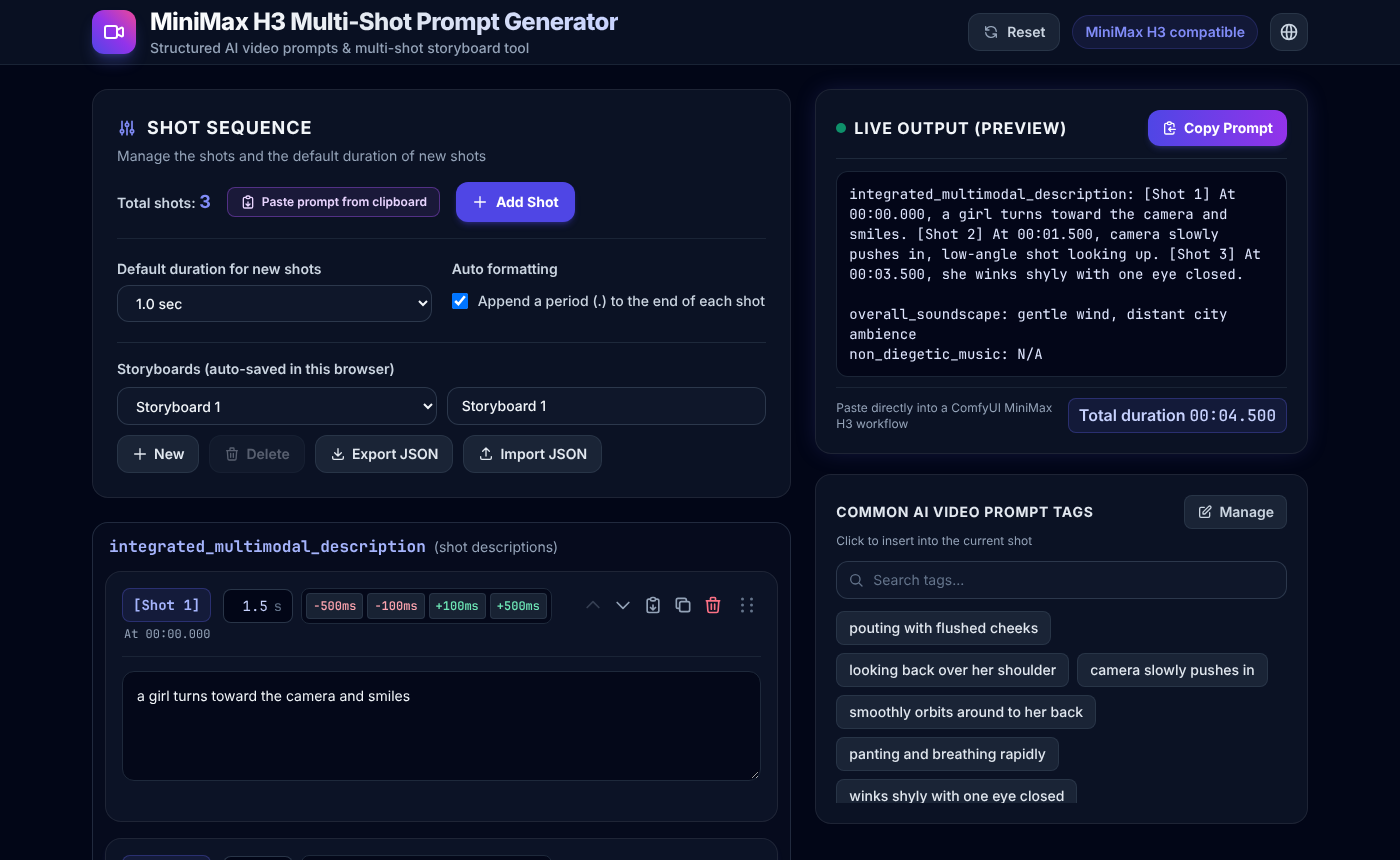
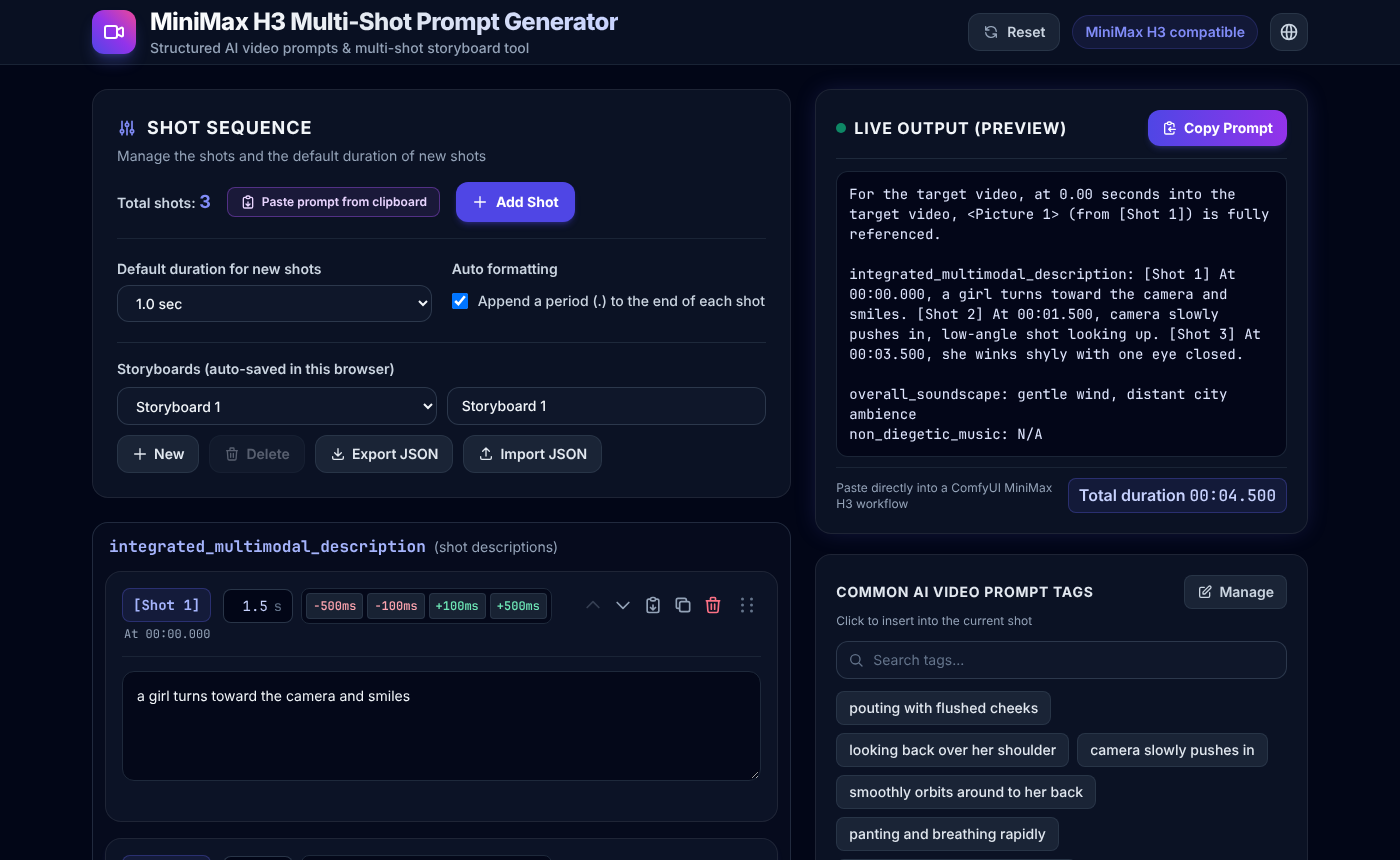
Prepend the official I2VA keyframe alignment sentence to the prompt
The H3 guide requires this sentence as the first line of an image-to-video
prompt, followed by one blank line. parsePrompt() already ignores it, so
pasting an old or new prompt both work.

Claude-Session: https://claude.ai/code/session_01P8mLr7zYKmqV8YWnxqGtAa

diff --git a/tests/unit/core.test.js b/tests/unit/core.test.js
@@ -34,8 +34,15 @@ test('buildPrompt: format, spacing, auto period, N/A defaults; At = sum of earli
     nonDiegeticMusic: ' soft piano ',
   });
   assert.equal(out,
+    core.KEYFRAME_ALIGNMENT + '\n\n' +
     'integrated_multimodal_description: [Shot 1] At 00:00.000, a girl smiles. [Shot 2] At 00:01.500, camera pushes in. [Shot 3] At 00:03.500, she waves.' +
     '\n\noverall_soundscape: N/A\nnon_diegetic_music: soft piano');
+});
+test('buildPrompt: starts with the I2VA keyframe alignment line and one blank line', () => {
+  const out = core.buildPrompt({ shots: [shot('1.0', 'x')], autoPeriod: true });
+  assert.equal(core.KEYFRAME_ALIGNMENT,
+    'For the target video, at 0.00 seconds into the target video, <Picture 1> (from [Shot 1]) is fully referenced.');
+  assert.ok(out.startsWith(core.KEYFRAME_ALIGNMENT + '\n\nintegrated_multimodal_description: '));
 });
 test('buildPrompt: autoPeriod off leaves text untouched', () => {
   const out = core.buildPrompt({ shots: [shot('1.0', 'no period')], autoPeriod: false });
@@ -46,7 +53,7 @@ test('buildPrompt: empty shots are skipped, renumbered and not counted in the ti
     shots: [shot('1.0', 'one'), shot('5.0', '   '), shot('1.0', 'three')],
     autoPeriod: true,
   });
-  assert.match(out, /^integrated_multimodal_description: \[Shot 1\] At 00:00\.000, one\. \[Shot 2\] At 00:01\.000, three\.\n/);
+  assert.match(out, /\nintegrated_multimodal_description: \[Shot 1\] At 00:00\.000, one\. \[Shot 2\] At 00:01\.000, three\.\n/);
 });
 test('analyzeShots: numbering and start times skip empty shots', () => {
   const info = core.analyzeShots([shot('1.0', 'a'), shot('3.0', ''), shot('0.5', 'c'), shot('2.0', 'd')]);
@@ -316,6 +323,14 @@ test('parsePrompt: round-trips buildPrompt output', () => {
   assert.deepEqual(r.shots, input.shots.map(({ duration, description }) => ({ duration, description })));
   assert.equal(r.overallSoundscape, 'rain on a window');
   assert.equal(r.nonDiegeticMusic, 'soft piano');
+});
+
+test('parsePrompt: ignores the keyframe alignment line, with or without field names', () => {
+  const line = core.KEYFRAME_ALIGNMENT;
+  const bare = core.parsePrompt(line + '\n\n[Shot 1] At 00:00.000, one. [Shot 2] At 00:01.000, two.', 1);
+  assert.deepEqual(bare.shots.map(s => s.description), ['one.', 'two.']);
+  const full = core.parsePrompt(line + '\n\nintegrated_multimodal_description: [Shot 1] At 00:00.000, one.', 1);
+  assert.deepEqual(full.shots.map(s => s.description), ['one.']);
 });
 
 test('parsePrompt: cleans spaces, line breaks, CRLF and invisible characters', () => {

diff --git a/js/core.js b/js/core.js
@@ -170,12 +170,16 @@ function totalDuration(shots) {
   ), 0);
 }
 
-// Build the MiniMax H3 prompt. See docs/FORMAT.md — do not change the
+// Build the MiniMax H3 prompt (I2VA). See docs/FORMAT.md — do not change the
 // format without asking the user.
+//   <KEYFRAME_ALIGNMENT line>
+//
 //   integrated_multimodal_description: [Shot 1] At 00:00.000, text. [Shot 2] ...
 //
 //   overall_soundscape: ...
 //   non_diegetic_music: ...
+const KEYFRAME_ALIGNMENT = 'For the target video, at 0.00 seconds into the target video, <Picture 1> (from [Shot 1]) is fully referenced.';
+
 function buildPrompt({ shots, autoPeriod, overallSoundscape, nonDiegeticMusic }) {
   const parts = [];
   const analysis = analyzeShots(shots);
@@ -194,7 +198,7 @@ function buildPrompt({ shots, autoPeriod, overallSoundscape, nonDiegeticMusic })
   const soundscape = (overallSoundscape || '').trim() || DEFAULT_AUDIO;
   const music = (nonDiegeticMusic || '').trim() || DEFAULT_AUDIO;
 
-  return `integrated_multimodal_description: ${parts.join(' ')}\n\noverall_soundscape: ${soundscape}\nnon_diegetic_music: ${music}`;
+  return `${KEYFRAME_ALIGNMENT}\n\nintegrated_multimodal_description: ${parts.join(' ')}\n\noverall_soundscape: ${soundscape}\nnon_diegetic_music: ${music}`;
 }
 
 // -----------------------------------------------------------------------------
@@ -515,6 +519,7 @@ function tagMatches(tag, query) {
 if (typeof module === 'object' && module.exports) {
   module.exports = {
     TIMESTAMP_RE,
+    KEYFRAME_ALIGNMENT,
     TIME_STEPS,
     formatTimestamp,
     cleanShotText,

diff --git a/tests/e2e/app.test.js b/tests/e2e/app.test.js
@@ -33,7 +33,7 @@ test.afterEach(async () => {
 });
 
 const output = (page) => page.locator('#output-preview').textContent();
-const firstLine = async (page) => (await output(page)).split('\n')[0];
+const firstLine = async (page) => (await output(page)).split('\n')[2]; // the integrated_multimodal_description line (line 0 is the keyframe alignment sentence)
 const descriptions = (page) => page.locator('textarea.shot-input');
 const descriptionValues = (page) => descriptions(page).evaluateAll(els => els.map(e => e.value));
 const durations = (page) => page.locator('.dur-input');

diff --git a/docs/FORMAT.md b/docs/FORMAT.md
@@ -7,12 +7,15 @@
 `buildPrompt()`（`core.js`）產生：
 
 ```
+For the target video, at 0.00 seconds into the target video, <Picture 1> (from [Shot 1]) is fully referenced.
+
 integrated_multimodal_description: [Shot 1] At 00:00.000, <描述>. [Shot 2] At 00:01.000, <描述>.
 
 overall_soundscape: <環境音效，預設 N/A>
 non_diegetic_music: <背景音樂，預設 N/A>
 ```
 
+- 第一行固定是官方 I2VA 關鍵幀對齊句（`KEYFRAME_ALIGNMENT`，本工具視為一張圖當首幀），後面空一行再接欄位。`parsePrompt()` 會略過它。
 - 時間戳記 `MM:SS.mmm`；鏡頭之間一個半形空格；「自動格式優化」開啟時描述結尾補 `.`。
 - **描述空白的鏡頭不輸出**，其餘依序重新編號；卡片標籤顯示輸出編號，空白卡片顯示 `[Shot –]`。
 - **鏡頭存的是持續時間**（`shot.duration`，秒數字串如 `"1.5"`），`At` 時間由 `analyzeShots()` 算出：第一個輸出的鏡頭從 `00:00.000` 開始，之後每個鏡頭的開始時間是前面「會輸出的」鏡頭持續時間加總。空白鏡頭不計入時間軸（卡片顯示 `At –`）。PREVIEW 顯示總長度 `totalDuration()`（只加總會輸出的鏡頭）。

diff --git a/docs/TODO.md b/docs/TODO.md
@@ -13,7 +13,7 @@
    - 參考清單：類型（Subject／Picture／Video／Audio，各類獨立編號）、定義、保留標記（下拉，資料放在容易增加處）、保留說明；同時產生 `subject_definitions` 與 `retention_analysis`，`appears in [Shot …]` 由掃描鏡頭描述自動算出。Picture 只在「首幀／關鍵幀／分鏡參考」時單獨列，其餘寫進 Subject 定義（官方規定）。
    - `summary` 前綴 6 個值（含 `keyframe completion`）、多選、` + ` 串接、不可重複、預設 `reference generation`。
    - 社群寫法（`retention_analysis` 整段自由文字）以「自由文字模式」備案；插入按鈕含 `<d>[Language] …</d>`；`parsePrompt()` 要能辨識兩種格式。
-   - 待確認：官方 I2VA／FL2VA／L2VA 輸出最前面還有一行關鍵幀對齊句＋空行，現有 image-to-video 格式沒有（見規格文件末段），要不要補？屬輸出格式變更，要先問。
+   - 現有格式已補官方 I2VA 關鍵幀對齊句；FL2VA／L2VA（首尾幀）目前不支援。
 
 ## 已知問題／限制
 

diff --git a/docs/MULTIMODAL-SPEC.md b/docs/MULTIMODAL-SPEC.md
@@ -57,4 +57,4 @@
 ## 與現有 image-to-video 格式的差異（`base-en.txt`）
 
 - Base 模式欄位是 `integrated_multimodal_description`／`overall_soundscape`／`non_diegetic_music`，風格寫在 `[Shot 1]` **之後**。
-- I2VA／FL2VA／L2VA 的完整輸出最前面還有一行關鍵幀對齊句＋一個空行，例如 I2VA：`For the target video, at 0.00 seconds into the target video, <Picture 1> (from [Shot 1]) is fully referenced.` 現有 `buildPrompt()` 沒有這一行（T2VA 才不需要）。
+- I2VA／FL2VA／L2VA 的完整輸出最前面還有一行關鍵幀對齊句＋一個空行，例如 I2VA：`For the target video, at 0.00 seconds into the target video, <Picture 1> (from [Shot 1]) is fully referenced.` 現有 `buildPrompt()` 已補上 I2VA 這一行（單一圖片當首幀）。

diff --git a/README.md b/README.md
@@ -20,6 +20,8 @@ No sign-up, no install. It runs entirely in your browser.
 ## Output format
 
 ```
+For the target video, at 0.00 seconds into the target video, <Picture 1> (from [Shot 1]) is fully referenced.
+
 integrated_multimodal_description: [Shot 1] At 00:00.000, a girl turns toward the camera and smiles. [Shot 2] At 00:01.000, camera slowly pushes in, low-angle shot looking up.
 
 overall_soundscape: gentle wind, distant city ambience
